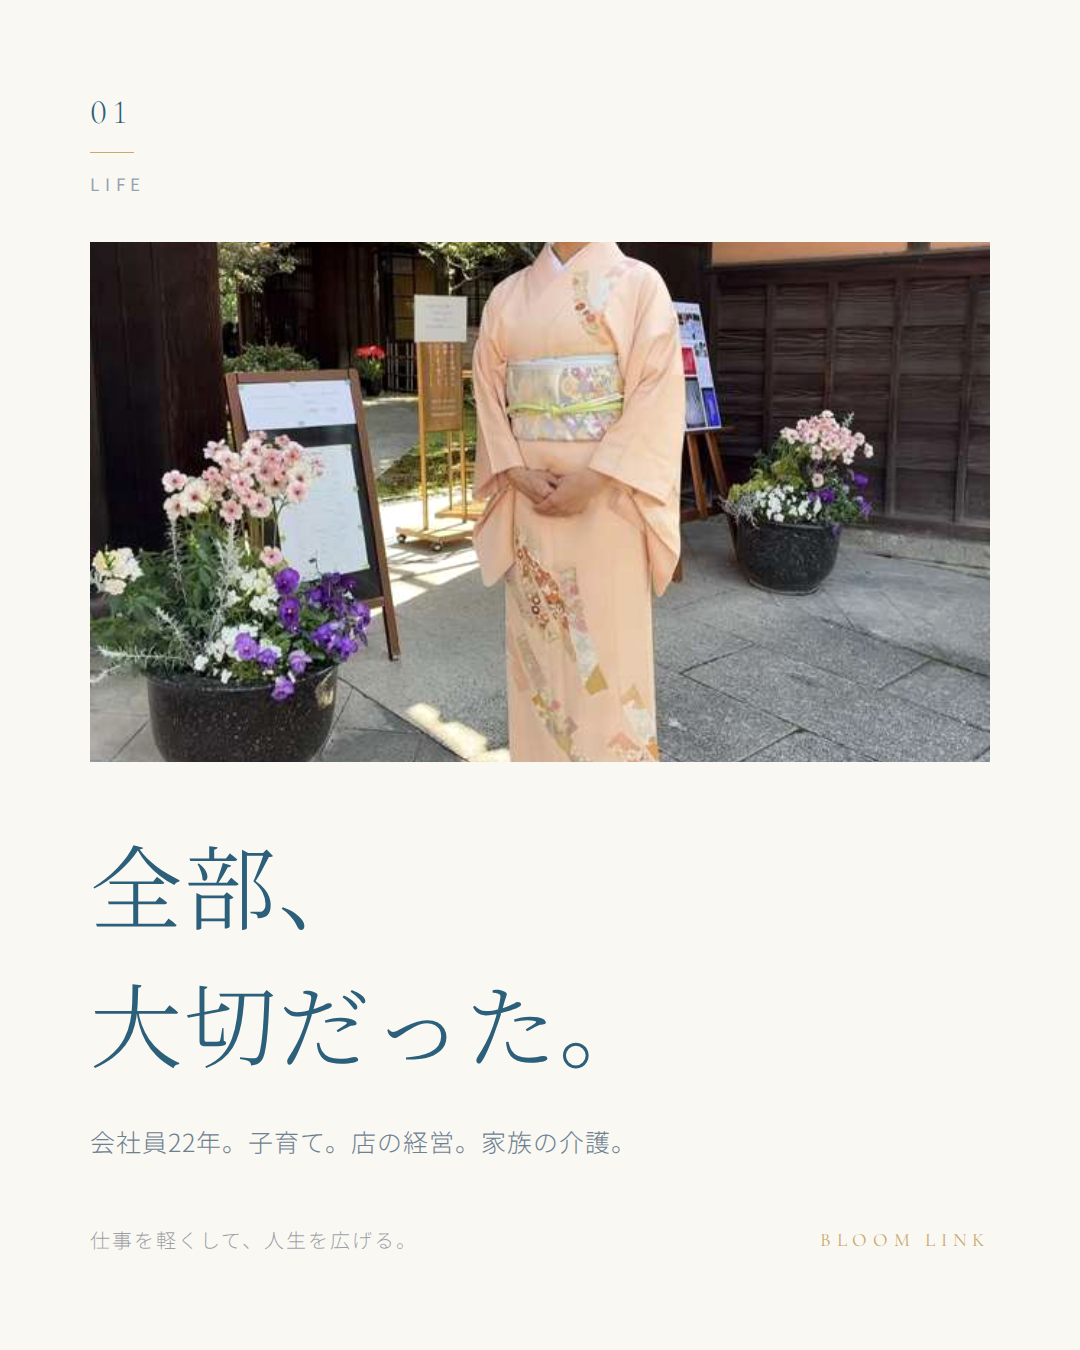
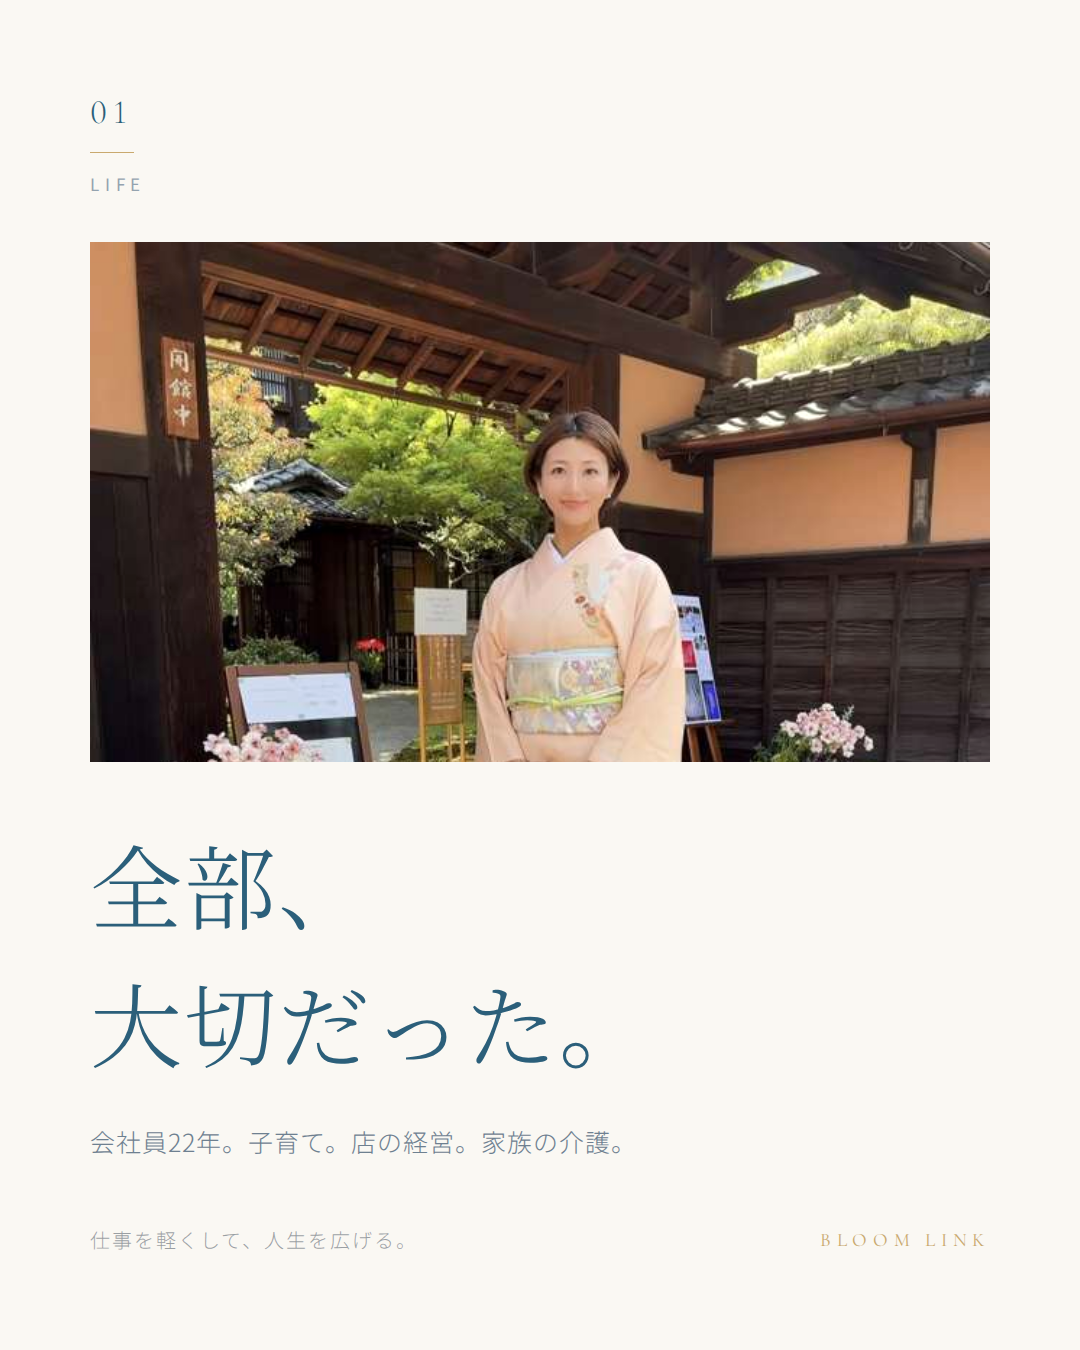
01の写真で顔が切れていたのを修正し、投稿の進め方を追記
01は縦位置の全身写真を横長の額装に入れていたため、既定の中央寄せで
首から下だけが写っていた。focus を上寄せにして顔が枠に入るようにした。
9枚のうち最初に出す1枚なので、ここは確実に直しておく。

あわせて、素材待ちで止まらないように投稿の進め方を資料に追記した。
写真を使わない回（02・04・05・08）は素材待ちが発生しないので、
9枚そろう前でも01から順に出していける。

Claude-Session: https://claude.ai/code/session_018TyEhHEDE4a9HFdLJk5hvJ

Changed region(s): [[0.0611, 0.1556, 0.9167, 0.5911]]

diff --git a/src/instagram9/posts.js b/src/instagram9/posts.js
@@ -35,6 +35,9 @@ export const posts = [
     category: 'LIFE',
     variant: 'frame',
     photos: ['japan.jpg'],
+    // 縦位置の全身写真を横長の額装に入れると、既定の中央寄せでは顔が切れる。
+    // 上寄せにして、顔が枠に入るようにする。
+    focus: '50% 4%',
     headline: ['全部、', '大切だった。'],
     sub: '会社員22年。子育て。店の経営。家族の介護。',
     headlineSize: 92,

diff --git a/docs/instagram-9-posts.md b/docs/instagram-9-posts.md
@@ -24,7 +24,32 @@
 確認画面と書き出しスクリプトは、どちらも同じファイルを読んでいる。
 片方だけ直して見た目がずれる、ということは起きない。
 
-## 2. 作業の流れ
+## 2. 投稿の進め方
+
+**9枚そろうまで待たなくていい。** 01から順に出していけば、
+グリッドは投稿するたびに完成に近づいていく。
+
+止まったときは、次に出す1枚だけを見る。
+
+| No | 出せる状態か | 出す前に必要なこと |
+| --- | --- | --- |
+| 01 | **出せる** | なし |
+| 02 | **出せる** | なし（写真を使わない回） |
+| 03 | もう少し | 「17日間で3カ国」の事実確認 |
+| 04 | **出せる** | なし（写真を使わない回） |
+| 05 | **出せる** | なし（写真を使わない回） |
+| 06 | 仮の写真 | 人が写った仕事の写真（なければ今の写真でも出せる） |
+| 07 | **出せる** | なし |
+| 08 | **出せる** | なし（写真を使わない回） |
+| 09 | **出せる** | なし |
+
+写真を使わない回（02・04・05・08）は素材待ちが発生しない。
+つまり**素材が揃っていなくても止まらない**ように9枚を組んである。
+
+投稿の間隔は決めていない。物語の順番だけ守れば、
+毎日でも週2回でも、グリッドは崩れない。
+
+## 3. 作業の流れ
 
 ```bash
 npm run dev          # /instagram9 で9枚まとめて確認
@@ -46,7 +71,7 @@ npm run ig:fonts     # 表紙のコピーに新しい漢字を足したときだ
 
 ---
 
-## 3. 01で確定したルール（02〜09で固定）
+## 4. 01で確定したルール（02〜09で固定）
 
 制作手順の指示どおり、01でこれを決め、以降は変えていない。
 
@@ -78,7 +103,7 @@ npm run ig:fonts     # 表紙のコピーに新しい漢字を足したときだ
 
 ---
 
-## 4. グリッド設計
+## 5. グリッド設計
 
 9枚を並べた状態そのものを1つの作品として設計している。
 同じ型が縦にも横にも隣り合わないように配置した。
@@ -114,7 +139,7 @@ npm run ig:fonts     # 表紙のコピーに新しい漢字を足したときだ
 
 ---
 
-## 5. 写真の割り当てと、足りていないもの
+## 6. 写真の割り当てと、足りていないもの
 
 | No | 使用素材 | 備考 |
 | --- | --- | --- |
@@ -185,7 +210,7 @@ npm run ig:photo public/travel/IMG_0237.jpeg uzbekistan-market.jpg
 
 ---
 
-## 6. 本文（キャプション）
+## 7. 本文（キャプション）
 
 9本とも `src/instagram9/posts.js` に入っている。
 `/instagram9` の各投稿に「本文をコピー」ボタンがあり、ハッシュタグまで含めてそのままコピーできる。
@@ -202,7 +227,7 @@ npm run ig:photo public/travel/IMG_0237.jpeg uzbekistan-market.jpg
 
 ---
 
-## 7. やらないこと
+## 8. やらないこと
 
 - 全体を暗くする／黒中心にする／「高級感＝暗い」と解釈する
 - 写真を暗く加工して、無理に統一感を作る
